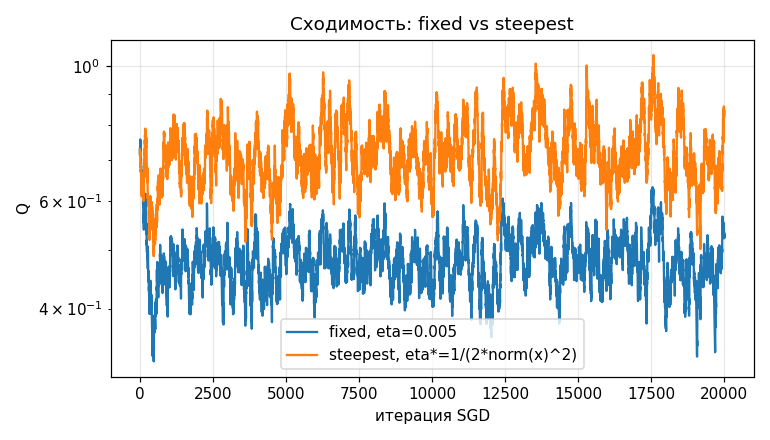
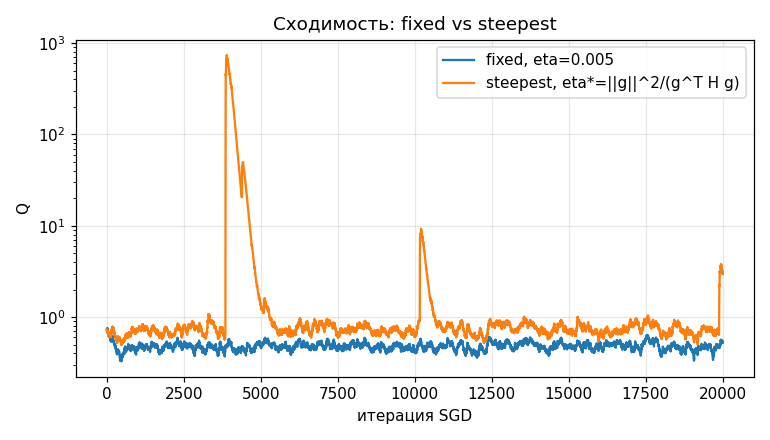
MLA-01: steepest_eta теперь зависит от полного градиента (loss+L2)

Changed region(s): [[0.0312, 0.0295, 0.9662, 0.975], [0.9039, 0.8568, 0.9662, 0.9159], [0.8104, 0.8568, 0.8727, 0.9159]]

diff --git a/students/kustarev-ap/lab1/source/run_experiment.py b/students/kustarev-ap/lab1/source/run_experiment.py
@@ -133,6 +133,8 @@ for name, clf in [("0.0", clf_l2_0), ("5.0", clf_l2_big)]:
 
 common = dict(init="correlation", sampling_strategy="uniform", gamma=0.9, l2_lambda=1e-2,
               max_iter=20000, random_state=42)
+# eta* выводится из полного градиента (loss + L2): eta*=||g||^2/(g^T H g),
+# поэтому корректно работает вместе с регуляризацией
 
 clf_fixed = LinearClassifier(step_strategy="fixed", eta=0.005, **common)
 clf_fixed.fit(X_train, y_train)
@@ -142,7 +144,7 @@ clf_steep.fit(X_train, y_train)
 
 plt.figure(figsize=(7, 4))
 plt.plot(clf_fixed.history_.Q, label="fixed, eta=0.005")
-plt.plot(clf_steep.history_.Q, label="steepest, eta*=1/(2*norm(x)^2)")
+plt.plot(clf_steep.history_.Q, label="steepest, eta*=||g||^2/(g^T H g)")
 plt.yscale("log")
 plt.xlabel("итерация SGD"); plt.ylabel("Q")
 plt.title("Сходимость: fixed vs steepest")
@@ -158,12 +160,12 @@ print(results_table(res_step))
 n = X_train.shape[0]
 X_aug = np.hstack([X_train, np.ones((n, 1))])
 x_i = X_aug[0]
-eta_star = LinearClassifier.steepest_eta(x_i)
 w0 = np.zeros(x_i.shape[0])
 grad0 = loss_grad(w0, x_i, y_train[0])
+eta_star = LinearClassifier.steepest_eta(x_i, grad0, l2_lambda=0.0)
 w1 = w0 - eta_star * grad0
 M1 = y_train[0] * (x_i @ w1)
-print(f"eta* = {eta_star:.5f}, отступ после шага M1 = {M1:.6f} (должен быть ~1.0)")
+print(f"eta* (l2=0) = {eta_star:.5f}, отступ после шага M1 = {M1:.6f} (должен быть ~1.0)")
 
 # Этап 7. Предъявление объектов по модулю отступа (п.8)
 

diff --git a/students/kustarev-ap/lab1/source/linear_classifier.py b/students/kustarev-ap/lab1/source/linear_classifier.py
@@ -88,8 +88,12 @@ class LinearClassifier:
         return np.sign(self.decision_function(X)).astype(float)
 
     @staticmethod
-    def steepest_eta(x_i, eps=1e-12):
-        return 1.0 / (2.0 * (x_i @ x_i) + eps)
+    def steepest_eta(x_i, grad, l2_lambda, eps=1e-12):
+        # eta* = ||g||^2 / (g^T H g), H -- гессиан (1-M)^2 + l2*||w||^2 вдоль grad,
+        # при l2_lambda=0 сводится к 1/(2*||x_i||^2)
+        xg = x_i @ grad
+        den = 2.0 * (xg ** 2 + l2_lambda * (grad[:-1] @ grad[:-1]))
+        return float(grad @ grad) / den if den > eps else 0.0
 
     def _fit_single_run(self, X, y, w0, rng):
         n = X.shape[0]
@@ -123,7 +127,7 @@ class LinearClassifier:
             y_i = y[i]
 
             grad = loss_grad(w, x_i, y_i) + 2.0 * self.l2_lambda * w * reg_mask
-            eta_t = self.steepest_eta(x_i) if self.step_strategy == "steepest" else self.eta
+            eta_t = self.steepest_eta(x_i, grad, self.l2_lambda) if self.step_strategy == "steepest" else self.eta
 
             v = self.gamma * v + (1.0 - self.gamma) * grad
             w = w - eta_t * v

diff --git a/students/kustarev-ap/lab1/README.md b/students/kustarev-ap/lab1/README.md
@@ -52,7 +52,9 @@ Split 80/20, стратификация по таргету, random_state=42, п
 
 ![Сходимость Q: fixed против steepest](plots/04_fixed_vs_steepest.png)
 
-fixed сходится к заметно лучшему качеству, чем steepest (ROC-AUC 0.881 против 0.728 на test). Оптимальный шаг жадно минимизирует loss только для одного текущего объекта, полностью перепрыгивая его отступ через 1 за один шаг — это агрессивное поведение, которое для следующего случайного объекта снова требует большого разнонаправленного скачка, из-за чего веса колеблются сильнее, чем при умеренном фиксированном шаге.
+Формула eta=1/(2*norm(x)^2) выведена для чистой квадратичной потери одного объекта без регуляризации: она предполагает, что шаг идёт строго вдоль x. При добавлении L2 к градиенту (grad = loss_grad + 2*l2*w) направление шага перестаёт совпадать с x, и эта формула больше не минимизирует то, что реально оптимизируется. Поэтому steepest_eta переписан: шаг теперь выводится из полного градиента g (loss + L2) по общей формуле точного шага вдоль направления для квадратичной функции, eta = ||g||^2 / (g^T H g), где H — гессиан (1-M)^2 + l2*||w||^2 вдоль g. При l2=0 формула сводится к прежней 1/(2*||x||^2), так что старый случай остаётся её частным случаем.
+
+fixed сходится к заметно лучшему качеству, чем steepest (ROC-AUC 0.881 против 0.633 на test). С учётом L2 в самой формуле шаг steepest стал самоограничивающимся: L2-слагаемое в знаменателе растёт вместе с нормой весов, поэтому шаг сам себя всё сильнее укорачивает по ходу обучения, и за фиксированное число итераций классификатор не успевает набрать качество. Умеренный фиксированный шаг в этой задаче остаётся практичнее аналитически точного, но чрезмерно осторожного steepest.
 
 ## Сэмплирование по модулю отступа
 
@@ -99,6 +101,6 @@ LinearClassifier, лучший режим 9.2: accuracy 0.845, precision 0.725, 
 1. Реализован единый класс LinearClassifier: отступ, квадратичная потеря и градиент, рекуррентная оценка Q, SGD с инерцией, L2-регуляризация, скорейший градиентный спуск, сэмплирование по модулю отступа, корреляционная инициализация и мультистарт.
 2. Доля ошибок классификации падает с 0.468 (случайные веса) до 0.162 после обучения.
 3. Переобучения на этом датасете не наблюдается ни при одном l2_lambda — train и test loss почти совпадают.
-4. fixed-шаг оказался стабильнее steepest: точный шаг для одного объекта слишком агрессивен для SGD.
+4. fixed-шаг оказался стабильнее steepest: правильно учитывающий L2 точный шаг становится самоограничивающимся и слишком осторожным для SGD за ограниченное число итераций.
 5. Margin-сэмплирование само по себе улучшает качество, но лучший из трёх режимов — 9.2 (случайная инициализация плюс мультистарт), ROC-AUC 0.897 на test.
 6. Разрыв с LogisticRegression по ROC-AUC — 0.019, что подтверждает корректность собственной реализации.
